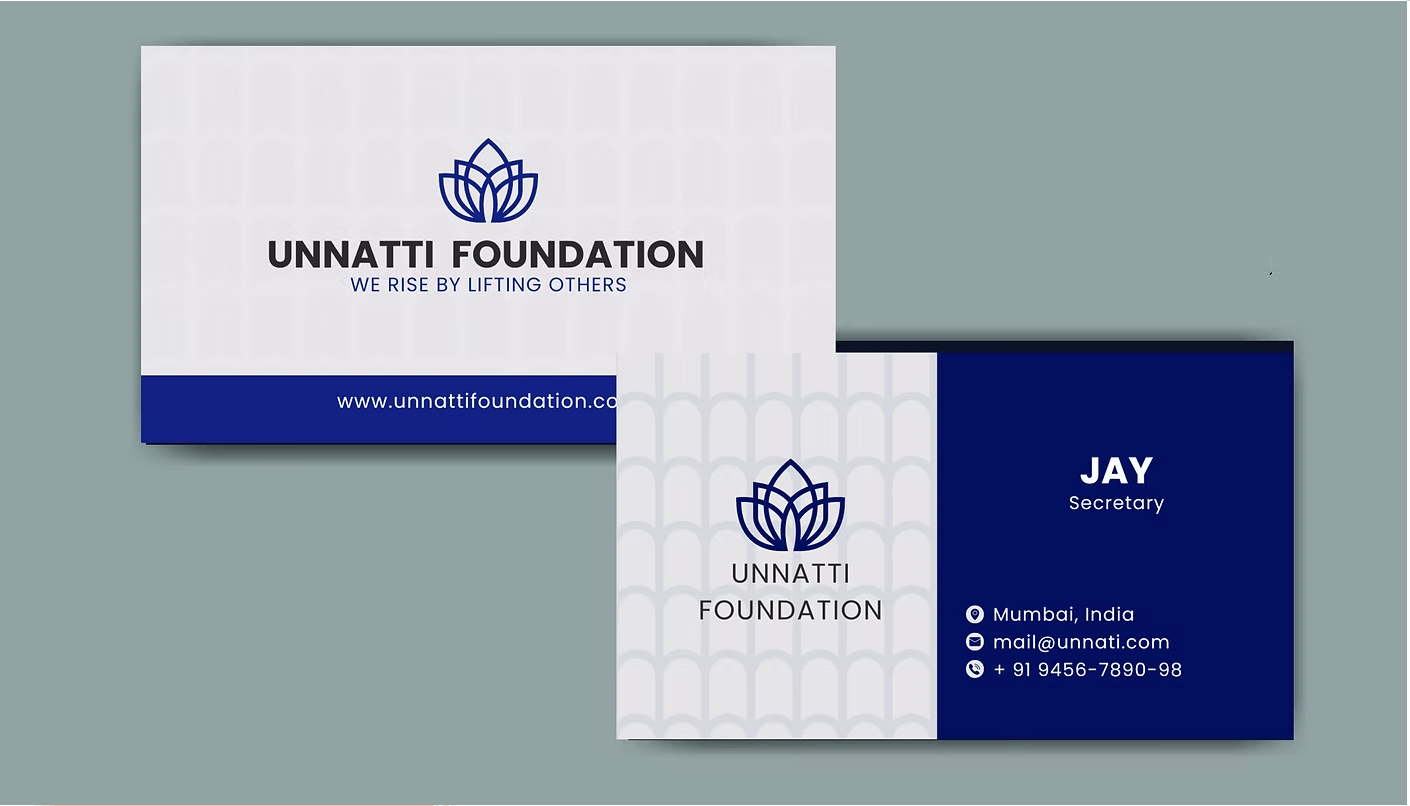
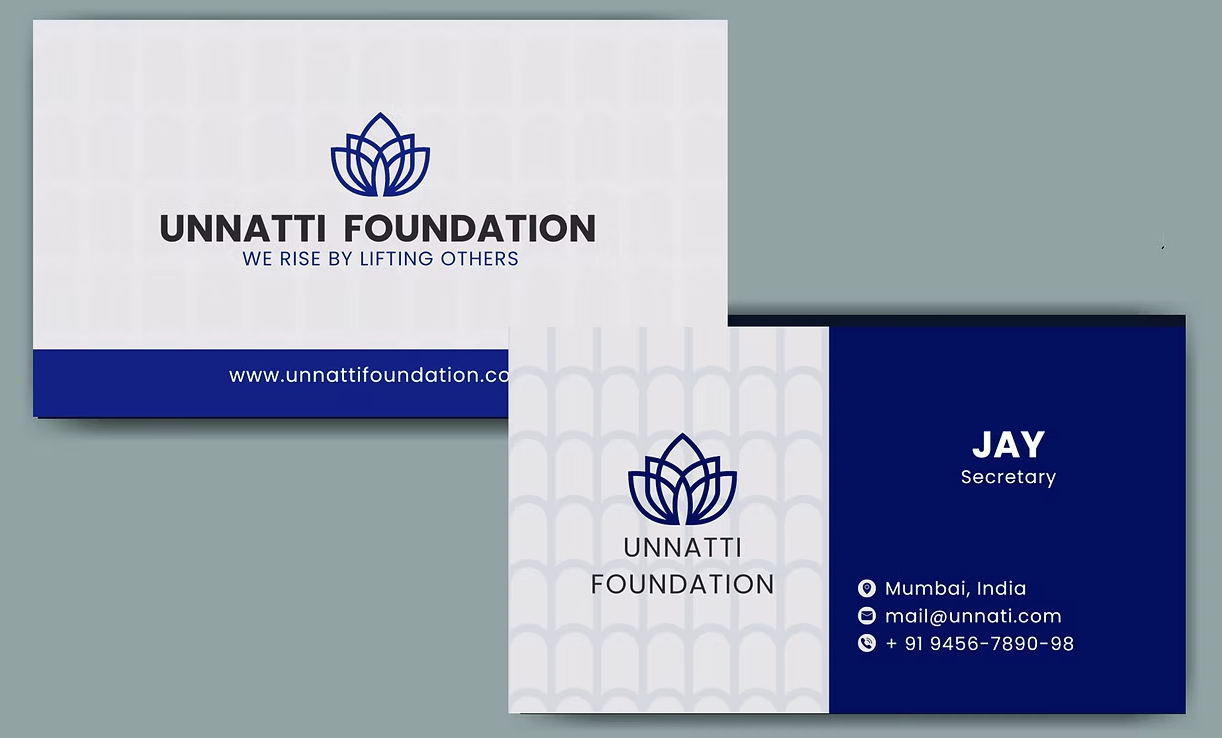
fix card

Changed region(s): [[0.0, 0.0, 1.0, 1.0], [0.7463, 0.561, 0.8707, 0.6545]]

diff --git a/index.html b/index.html
@@ -3289,8 +3289,8 @@
                 <div class="project-card animated full-width">
                     <div class="project-flex-container">
                         <div class="project-media-container">
-                            <div class="project-image" style="display: flex; align-items: center; justify-content: center; height: 100%; padding: 2rem; background: #f8f9fa;">
-                                <img src="images/businesscards.png" alt="Unnatti Foundation Business Cards" style="width: 90%; height: auto; object-fit: contain; border-radius: 12px; box-shadow: 0 10px 30px rgba(0, 0, 0, 0.05);">
+                            <div class="project-image" style="display: flex; align-items: center; justify-content: center; width: 100%; height: 100%; background: #8EA4A4;">
+                                <img src="images/businesscards.png" alt="Unnatti Foundation Business Cards" style="width: 100%; height: 100%; object-fit: contain; background: #8EA4A4;">
                             </div>
                         </div>
                         <div class="project-content">
